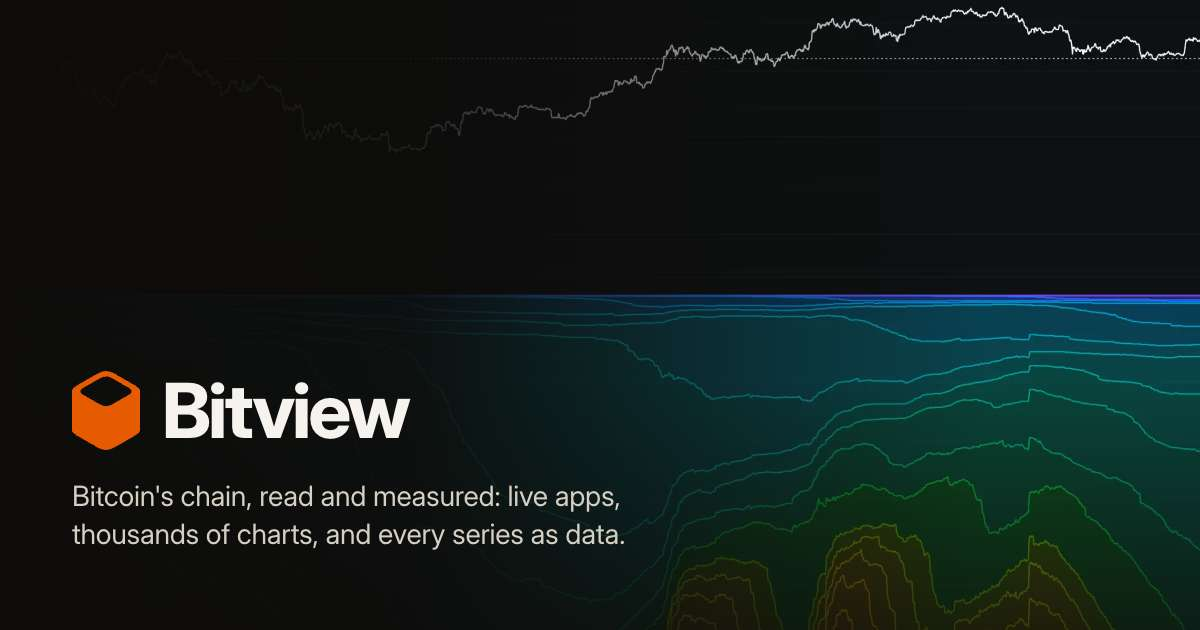
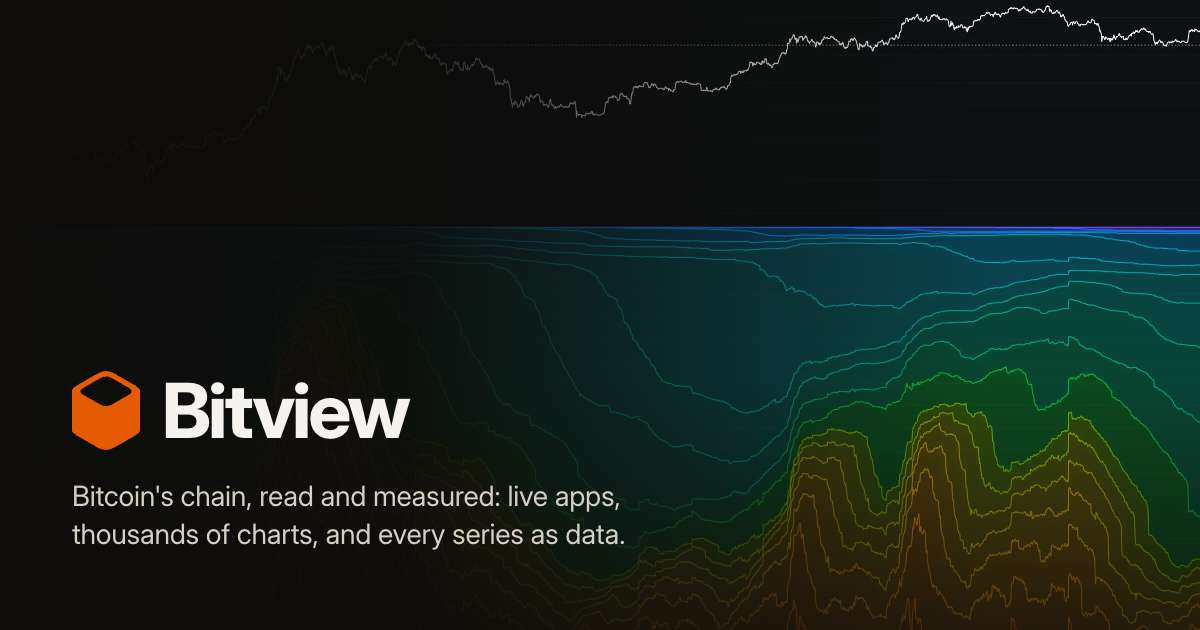
Studio's hero and share picture are set for the waves, not the floors
The hero's picture for Studio (website/index.html) is dropped below the nav, 32px at one row, 90 at the phone and tablet two-row nav (up to 899px), its top in view (--art-y 0%), and the phone band's --art-top is gone: the price line runs clear of the bar and the three crests show under the words, at 390x844 DPR 2, 600, 720, 900, 1024, 1440x900, 1440x700 and 1920x1080, each looked at beside the old values. At 720 to 899px the line passes behind the title (two nav rows leave it little room); it reads, faintly. The comment above says why, in one line.

The share picture's crop (scripts/home.mjs, SHARE_CARD) drops the floors' 1.3x zoom and its 35% offset: the banner cover-fits from its top, so the whole price line and all three crests are in the 1200x630 card, the words over the dark left of the waves. og.jpg re-made through scripts/home.mjs --pictures at JPEG 60, 36,351 -> 42,577 bytes (+6,226) for the fuller picture.

Code-read: Sonnet 5.5 seat; hero shots at ten viewports before and after, og.jpg opened before and after at native size; the run's star counts, other pages and Studio's card left out of the commit
Timings: index.html +10 -7 lines, home.mjs +1 -1, no new state or mode; og.jpg +6,226 bytes

diff --git a/website/index.html b/website/index.html
@@ -546,9 +546,9 @@
 
         img {
           position: absolute;
-          inset: 0;
+          inset: var(--art-drop, 0px) 0 0;
           width: 100%;
-          height: 100%;
+          height: calc(100% - var(--art-drop, 0px));
           object-fit: cover;
           /* (Its height in view, a third of the way down, where a picture doesn't say its own.) */
           object-position: 70% var(--art-y, 35%);
@@ -560,11 +560,14 @@
             opacity: 1;
           }
 
-          /* (Studio's chart fills its picture's top half, over its dark ground: the top in view; in a phone's band, its
-             top 57% as tall as the band.) */
+          /* (Its price runs above its waves: its top in view, the picture dropped below the nav (32px at one row, 90 at two), so the line and the crests both show.) */
           &[src$="/studio.webp"] {
-            --art-y: 10%;
-            --art-top: 0.57;
+            --art-drop: 32px;
+            --art-y: 0%;
+
+            @media (max-width: 899px) {
+              --art-drop: 90px;
+            }
           }
 
           /* (Oracle's chart sits across its picture's middle: lowered, it sinks into the words' fade; kept at the top.) */
@@ -597,7 +600,7 @@
           /* (A picture whose subject is its top: that top the band's height, the rest under it cut.) */
           img {
             bottom: auto;
-            height: calc(100% / var(--art-top, 1));
+            height: calc(100% / var(--art-top, 1) - var(--art-drop, 0px));
 
             /* (Installed on iOS, the page runs up under the status bar: the picture starts under it, where it did, and
                its own top, mirrored, fills the strip above, its colours carried up to the screen's edge.) */
